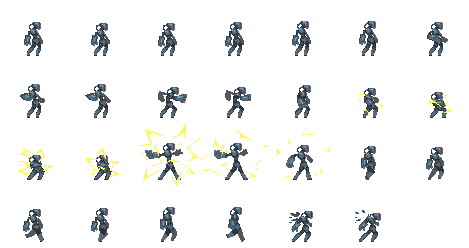
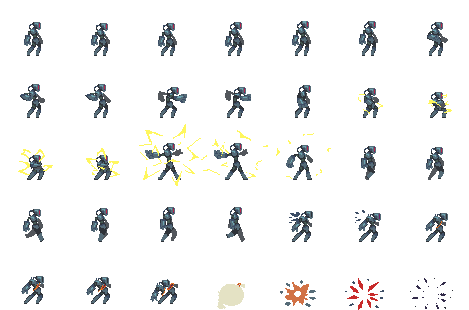
New death animation and dangerous stage increase with cores

diff --git a/LudumDare40/Components/Battle/Enemies/EnemyOneComponent.cs b/LudumDare40/Components/Battle/Enemies/EnemyOneComponent.cs
@@ -24,6 +24,8 @@ namespace LudumDare40.Components.Battle.Enemies
 
         public override void initialize()
         {
+            base.initialize();
+
             var texture = entity.scene.content.Load<Texture2D>(Content.Characters.enemyOne);
             sprite = entity.addComponent(new AnimatedSprite(texture, "stand"));
             sprite.CreateAnimation("stand", 0.25f);
@@ -91,12 +93,24 @@ namespace LudumDare40.Components.Battle.Enemies
             });
             sprite.AddFramesToAttack("electricalDischarge", 0, 1, 2, 3, 4, 5, 6);
 
-            sprite.CreateAnimation("dying", 0.2f, false);
+            sprite.CreateAnimation("hit", 0.1f, false);
+            sprite.AddFrames("hit", new List<Rectangle>
+            {
+                new Rectangle(268, 186, 67, 62),
+                new Rectangle(335, 186, 67, 62),
+            }, new[] { 0, 0, 0, 0, 0, 0 }, new[] { -4, -4, -4, -4, -4, -4 });
+
+            sprite.CreateAnimation("dying", 0.1f, false);
             sprite.AddFrames("dying", new List<Rectangle>
             {
-                new Rectangle(268, 186, 64, 64),
-                new Rectangle(335, 186, 64, 64),
-            }, new[] { 0, 0, 0, 0, 0, 0 }, new[] { -4, -4, -4, -4, -4, -4 });
+                new Rectangle(402, 186, 67, 62),
+                new Rectangle(0, 248, 67, 62),
+                new Rectangle(67, 248, 67, 62),
+                new Rectangle(134, 248, 67, 62),
+                new Rectangle(201, 248, 67, 62),
+                new Rectangle(201, 248, 67, 62),
+                new Rectangle(268, 248, 67, 62),
+            }, new[] { 0, 0, 0, 0, 0, 0, 0 }, new[] { -4, -4, -4, -4, -4, -4, -4 });
 
             // FSM
             _fsm = new FiniteStateMachine<EnemyOneState, EnemyOneComponent>(this, new EnemyOnePatrolState());
@@ -111,6 +125,20 @@ namespace LudumDare40.Components.Battle.Enemies
             // Change move speed
             platformerObject.maxMoveSpeed = 60;
             platformerObject.moveSpeed = 60;
+        }
+
+        public override void onHit(Vector2 knockback)
+        {
+            if (dangerousStage <= 1)
+            {
+                base.onHit(knockback);
+                FSM.changeState(new EnemyOneHitState());
+            }
+        }
+
+        public override void onDeath()
+        {
+            FSM.changeState(new EnemyOneDyingState());
         }
 
         public override void update()

diff --git a/LudumDare40/Components/Battle/EnemyComponent.cs b/LudumDare40/Components/Battle/EnemyComponent.cs
@@ -6,6 +6,7 @@ using System.Threading.Tasks;
 using LudumDare40.Components.Player;
 using LudumDare40.Components.Sprites;
 using LudumDare40.Managers;
+using LudumDare40.Scenes;
 using Microsoft.Xna.Framework;
 using Microsoft.Xna.Framework.Graphics;
 using Nez;
@@ -71,6 +72,13 @@ namespace LudumDare40.Components.Battle
             _battleComponent = entity.getComponent<BattleComponent>();
             _battleComponent.setHp(5);
             _battleComponent.battleEntity = this;
+
+            entity.setTag(SceneMap.ENEMIES);
+        }
+
+        public void increaseDangerousStage()
+        {
+            dangerousStage++;
         }
 
         public void forceMovement(Vector2 velocity)
@@ -88,10 +96,11 @@ namespace LudumDare40.Components.Battle
 
         public virtual void onHit(Vector2 knockback)
         {
-            //platformerObject.velocity.X = knockback.X * 200;
-            _knockbackTick = 0.1f;
+            _knockbackTick = 0.08f;
             _knockbackVelocity = knockback.X * Vector2.UnitX * 60;
         }
+
+        public virtual void onDeath() { }
 
         public virtual void update()
         {
@@ -121,7 +130,6 @@ namespace LudumDare40.Components.Battle
 
                 po.velocity.X = (int)MathHelper.Clamp(po.velocity.X + moveSpeed * velocity * Time.deltaTime, -mms, mms);
                 sprite.spriteEffects = velocity < 0 ? SpriteEffects.FlipHorizontally : SpriteEffects.None;
-
             }
             else
             {

diff --git a/LudumDare40/Components/Battle/Enemies/EnemyOneStates.cs b/LudumDare40/Components/Battle/Enemies/EnemyOneStates.cs
@@ -79,7 +79,7 @@ namespace LudumDare40.Components.Battle.Enemies
             {
                 fsm.pushState(new EnemyOnePunchState());
             }
-            else if (_electricalDischargeCooldown <= 0.0f && entity.canSeeThePlayer() && Math.Abs(distance) < 40)
+            else if (entity.dangerousStage > 1 && _electricalDischargeCooldown <= 0.0f && entity.canSeeThePlayer() && Math.Abs(distance) < 40)
             {
                 _electricalDischargeCooldown = 0.8f;
                 var ran = Random.nextFloat();
@@ -133,6 +133,30 @@ namespace LudumDare40.Components.Battle.Enemies
             {
                 fsm.popState();
             }
+        }
+    }
+
+    public class EnemyOneHitState : EnemyOneState
+    {
+        public override void begin()
+        {
+            entity.sprite.play("hit");
+        }
+
+        public override void update()
+        {
+            if (entity.sprite.Looped)
+            {
+                fsm.resetStackTo(new EnemyOnePatrolState());
+            }
+        }
+    }
+
+    public class EnemyOneDyingState : EnemyOneState
+    {
+        public override void begin()
+        {
+            entity.sprite.play("dying");
         }
     }
 }

diff --git a/LudumDare40/Components/Map/ReactorComponent.cs b/LudumDare40/Components/Map/ReactorComponent.cs
@@ -1,4 +1,5 @@
 using System.Collections.Generic;
+using LudumDare40.Components.Battle;
 using LudumDare40.Components.Sprites;
 using LudumDare40.Scenes;
 using Microsoft.Xna.Framework;
@@ -43,6 +44,12 @@ namespace LudumDare40.Components.Map
         {
             _isActivated = true;
             sprite.play("activated");
+
+            var enemies = entity.scene.findEntitiesWithTag(SceneMap.ENEMIES);
+            foreach (var enemy in enemies)
+            {
+                enemy.getComponent<EnemyComponent>().increaseDangerousStage();
+            }
         }
     }
 }

diff --git a/LudumDare40/Components/Battle/BattleComponent.cs b/LudumDare40/Components/Battle/BattleComponent.cs
@@ -9,6 +9,7 @@ namespace LudumDare40.Components.Battle
     public interface IBattleEntity
     {
         void onHit(Vector2 knockback);
+        void onDeath();
     }
 
     class BattleComponent: Component, IUpdatable
@@ -80,6 +81,7 @@ namespace LudumDare40.Components.Battle
                 _animatedSprite.play("dying");
                 _dying = true;
                 _deathTime = DeathDuration;
+                battleEntity?.onDeath();
             }
         }
 
